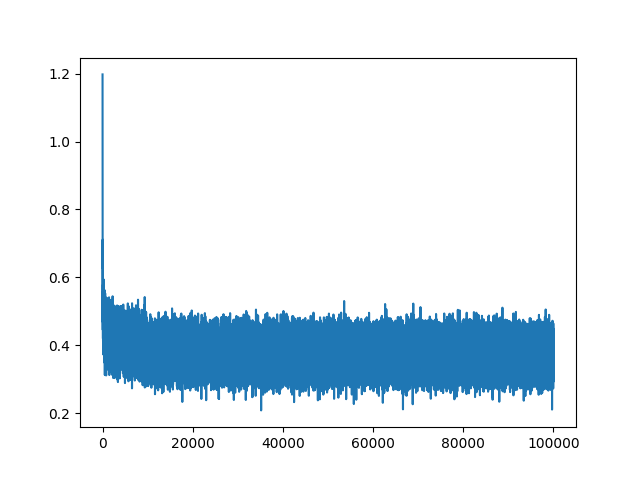
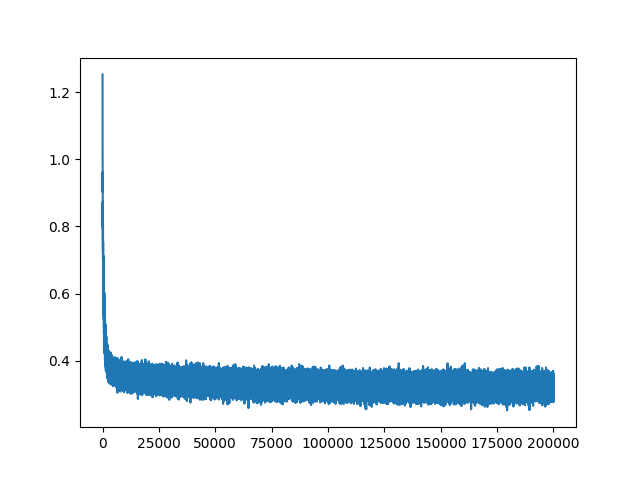
best possible mlp

diff --git a/src/mlp.cpp b/src/mlp.cpp
@@ -1,20 +1,20 @@
 #include "mlp.h"
 #include "matplotlibcpp.h"
 #include <ATen/core/grad_mode.h>
+#include <ATen/ops/multinomial.h>
 #include <torch/nn/functional/loss.h>
 
 void MLP::build_dataset() {
   std::vector<std::string> words;
-  std::unordered_map<char, int> stoi;
-  std::unordered_map<int, char> itos;
   std::vector<int> Y1, X1;
   assert(read_inputs(words));
   create_vocabulary(words, stoi, itos);
-  for (auto &word : words) {
+  for (auto word : words) {
     std::queue<int> context;
     for (int i = 0; i < CONTEXT_SIZE; i++)
       context.push(0);
     int ix = 0;
+    word = word + ".";
     for (char &c : word) {
       ix = stoi[c];
       Y1.push_back(ix);
@@ -93,7 +93,11 @@ void MLP::init_weights() {
   C = torch::randn({VOCABULARY_SIZE, EMBEDDING_SPACE_DIM}, g, t);
 }
 
-void MLP::clear_weights() { starting_fresh = true; lossi.clear(); stepi.clear(); }
+void MLP::clear_weights() {
+  starting_fresh = true;
+  lossi.clear();
+  stepi.clear();
+}
 
 void MLP::clear_grads() {
   W1.mutable_grad() = torch::Tensor();
@@ -114,58 +118,96 @@ void MLP::train_model(int num_training_loops) {
                           .add(b1)
                           .tanh();
     torch::Tensor logits = h.matmul(W2).add(b2);
-    torch::Tensor loss = at::cross_entropy_loss(logits, Ytr.index({ix}));
+    torch::Tensor loss =
+        at::cross_entropy_loss(logits, Ytr.index({ix})) +
+        0.001 * (W1.square().mean() + b1.square().mean() + W2.square().mean() +
+                 b2.square().mean() + C.square().mean());
     clear_grads();
     loss.backward();
-    auto lr =  i < 10000? 0.1 : 0.01;
+    auto lr = i < 100000 ? 0.1 : 0.01;
     update_params(lr);
     stepi.push_back(i);
     lossi.push_back(loss.log10().item().toDouble());
-}
-plot_losses();
-train_loss();
-validate_loss();
-test_loss();
-}
-
-void MLP::update_params(double learning_rate){
-    torch::NoGradGuard no_grad;
-    W1.data() += -learning_rate * W1.grad();
-    W2.data() += -learning_rate * W2.grad();
-    b1.data() += -learning_rate * b1.grad();
-    b2.data() += -learning_rate * b2.grad();
-    C.data() += -learning_rate * C.grad();
+  }
+  plot_losses();
+  train_loss();
+  validate_loss();
+  test_loss();
 }
 
-void MLP::plot_losses(){
-    matplotlibcpp::backend("Agg");
-    matplotlibcpp::plot(stepi, lossi);
-    matplotlibcpp::save("../mlp.png");
+void MLP::update_params(double learning_rate) {
+  torch::NoGradGuard no_grad;
+  W1.data() += -learning_rate * W1.grad();
+  W2.data() += -learning_rate * W2.grad();
+  b1.data() += -learning_rate * b1.grad();
+  b2.data() += -learning_rate * b2.grad();
+  C.data() += -learning_rate * C.grad();
 }
 
-void MLP::validate_loss(){
-    torch::NoGradGuard no_grad;
-    auto emb = C.index({Xdev});
-    auto h = emb.view({-1, CONTEXT_SIZE*EMBEDDING_SPACE_DIM}).matmul(W1).add(b1).tanh();
-    auto logits = h.matmul(W2) + b2;
-    auto loss = torch::nn::functional::cross_entropy(logits, Ydev);
-    std::cout << "Validation dataset loss = " << loss.item().toDouble() << std::endl;
+void MLP::plot_losses() {
+  matplotlibcpp::backend("Agg");
+  matplotlibcpp::plot(stepi, lossi);
+  matplotlibcpp::save("../mlp.png");
 }
 
-void MLP::train_loss(){
-    torch::NoGradGuard no_grad;
-    auto emb = C.index({Xtr});
-    auto h = emb.view({-1, CONTEXT_SIZE*EMBEDDING_SPACE_DIM}).matmul(W1).add(b1).tanh();
-    auto logits = h.matmul(W2) + b2;
-    auto loss = torch::nn::functional::cross_entropy(logits, Ytr);
-    std::cout << "Validation dataset loss = " << loss.item().toDouble() << std::endl;
+void MLP::validate_loss() {
+  torch::NoGradGuard no_grad;
+  auto emb = C.index({Xdev});
+  auto h = emb.view({-1, CONTEXT_SIZE * EMBEDDING_SPACE_DIM})
+               .matmul(W1)
+               .add(b1)
+               .tanh();
+  auto logits = h.matmul(W2) + b2;
+  auto loss = torch::nn::functional::cross_entropy(logits, Ydev);
+  std::cout << "Validation dataset loss = " << loss.item().toDouble()
+            << std::endl;
 }
 
-void MLP::test_loss(){
-    torch::NoGradGuard no_grad;
-    auto emb = C.index({Xtest});
-    auto h = emb.view({-1, CONTEXT_SIZE*EMBEDDING_SPACE_DIM}).matmul(W1).add(b1).tanh();
-    auto logits = h.matmul(W2) + b2;
-    auto loss = torch::nn::functional::cross_entropy(logits, Ytest);
-    std::cout << "Validation dataset loss = " << loss.item().toDouble() << std::endl;
+void MLP::train_loss() {
+  torch::NoGradGuard no_grad;
+  auto emb = C.index({Xtr});
+  auto h = emb.view({-1, CONTEXT_SIZE * EMBEDDING_SPACE_DIM})
+               .matmul(W1)
+               .add(b1)
+               .tanh();
+  auto logits = h.matmul(W2) + b2;
+  auto loss = torch::nn::functional::cross_entropy(logits, Ytr);
+  std::cout << "training dataset loss = " << loss.item().toDouble()
+            << std::endl;
+}
+
+void MLP::test_loss() {
+  torch::NoGradGuard no_grad;
+  auto emb = C.index({Xtest});
+  auto h = emb.view({-1, CONTEXT_SIZE * EMBEDDING_SPACE_DIM})
+               .matmul(W1)
+               .add(b1)
+               .tanh();
+  auto logits = h.matmul(W2) + b2;
+  auto loss = torch::nn::functional::cross_entropy(logits, Ytest);
+  std::cout << "test dataset loss = " << loss.item().toDouble() << std::endl;
+}
+
+void MLP::sample_model(int num_iters) {
+  torch::NoGradGuard no_grad;
+  std::vector<int> vect(CONTEXT_SIZE, 0);
+  while (num_iters--) {
+    torch::Tensor ctxt = torch::tensor(vect);
+    while (true) {
+      auto emb = C.index({ctxt});
+      auto h = emb.view({-1, CONTEXT_SIZE * EMBEDDING_SPACE_DIM})
+                   .matmul(W1)
+                   .add(b1)
+                   .tanh();
+      auto logits = h.matmul(W2).add(b2);
+      auto counts = logits.exp();
+      auto probs = counts / counts.sum(1, true);
+      auto ypred = torch::multinomial(probs, 1);
+      if (ypred[0].item().toInt() == 0)
+        break;
+      std::cout << itos[ypred.item().toInt()];
+      ctxt = torch::cat({ctxt.slice(0, 1), ypred[0]}, 0);
+    }
+    std::cout << std::endl;
+  }
 }

diff --git a/src/main.cpp b/src/main.cpp
@@ -1,11 +1,3 @@
-#include <ATen/ops/softmax.h>
-#include <c10/core/TensorOptions.h>
-#include <torch/csrc/autograd/generated/variable_factories.h>
-#include <torch/headeronly/core/DeviceType.h>
-#include <torch/nn/modules/activation.h>
-#include <torch/torch.h>
-#include <torch/types.h>
-#include <torch/utils.h>
 #define INSERT_NEW_LINE() std::cout << std::endl
  
  
@@ -15,10 +7,10 @@
 // #include "bigram.h"
 #include "common.h"
 
-#define USE_BIGRAM_MODEL 1
-#define USE_MLP_MODEL 0
+#define USE_BIGRAM_MODEL 0
+#define USE_MLP_MODEL 1
 
-#ifdef USE_BIGRAM_MODEL
+#if USE_BIGRAM_MODEL
 #include "bigram.h"
 #elif USE_MLP_MODEL
 	#include "mlp.h"
@@ -29,10 +21,11 @@ int main() {
 #if USE_BIGRAM_MODEL
   bigram_model();
 #elif USE_MLP_MODEL
-	MLP mlp;
+	MLP mlp(5,10,100);
 	mlp.build_dataset();
 	mlp();
-	mlp.train_model(100000);
+	mlp.train_model(200000);
+	mlp.sample_model(20);
 #endif
 
 // #ifdef DEBUG

diff --git a/include/mlp.h b/include/mlp.h
@@ -13,13 +13,15 @@ private:
   int EMBEDDING_SPACE_DIM = 2;
   int CONTEXT_SIZE = 3;
   int NUM_HIDDEN_NEURONS = 100;
-  int BATCH_SIZE = 32;
+  int BATCH_SIZE = 256;
   torch::Tensor W1, W2, b1, b2, C;
   bool starting_fresh = true;
   torch::Generator g = at::make_generator<at::CPUGeneratorImpl>(2147483647);
   torch::Tensor Xtr , Ytr, Xdev, Ydev, Ytest, Xtest;
   std::vector<int> stepi;
   std::vector<double> lossi;
+  std::unordered_map<char, int> stoi;
+  std::unordered_map<int, char> itos;
 public:
   MLP(int context_size = 3, int embedding_space_dim = 2,
       int num_hidden_neurons = 100)
@@ -38,4 +40,5 @@ public:
   void validate_loss();
   void test_loss();
   void train_loss();
+  void sample_model(int num_iters);
 };
